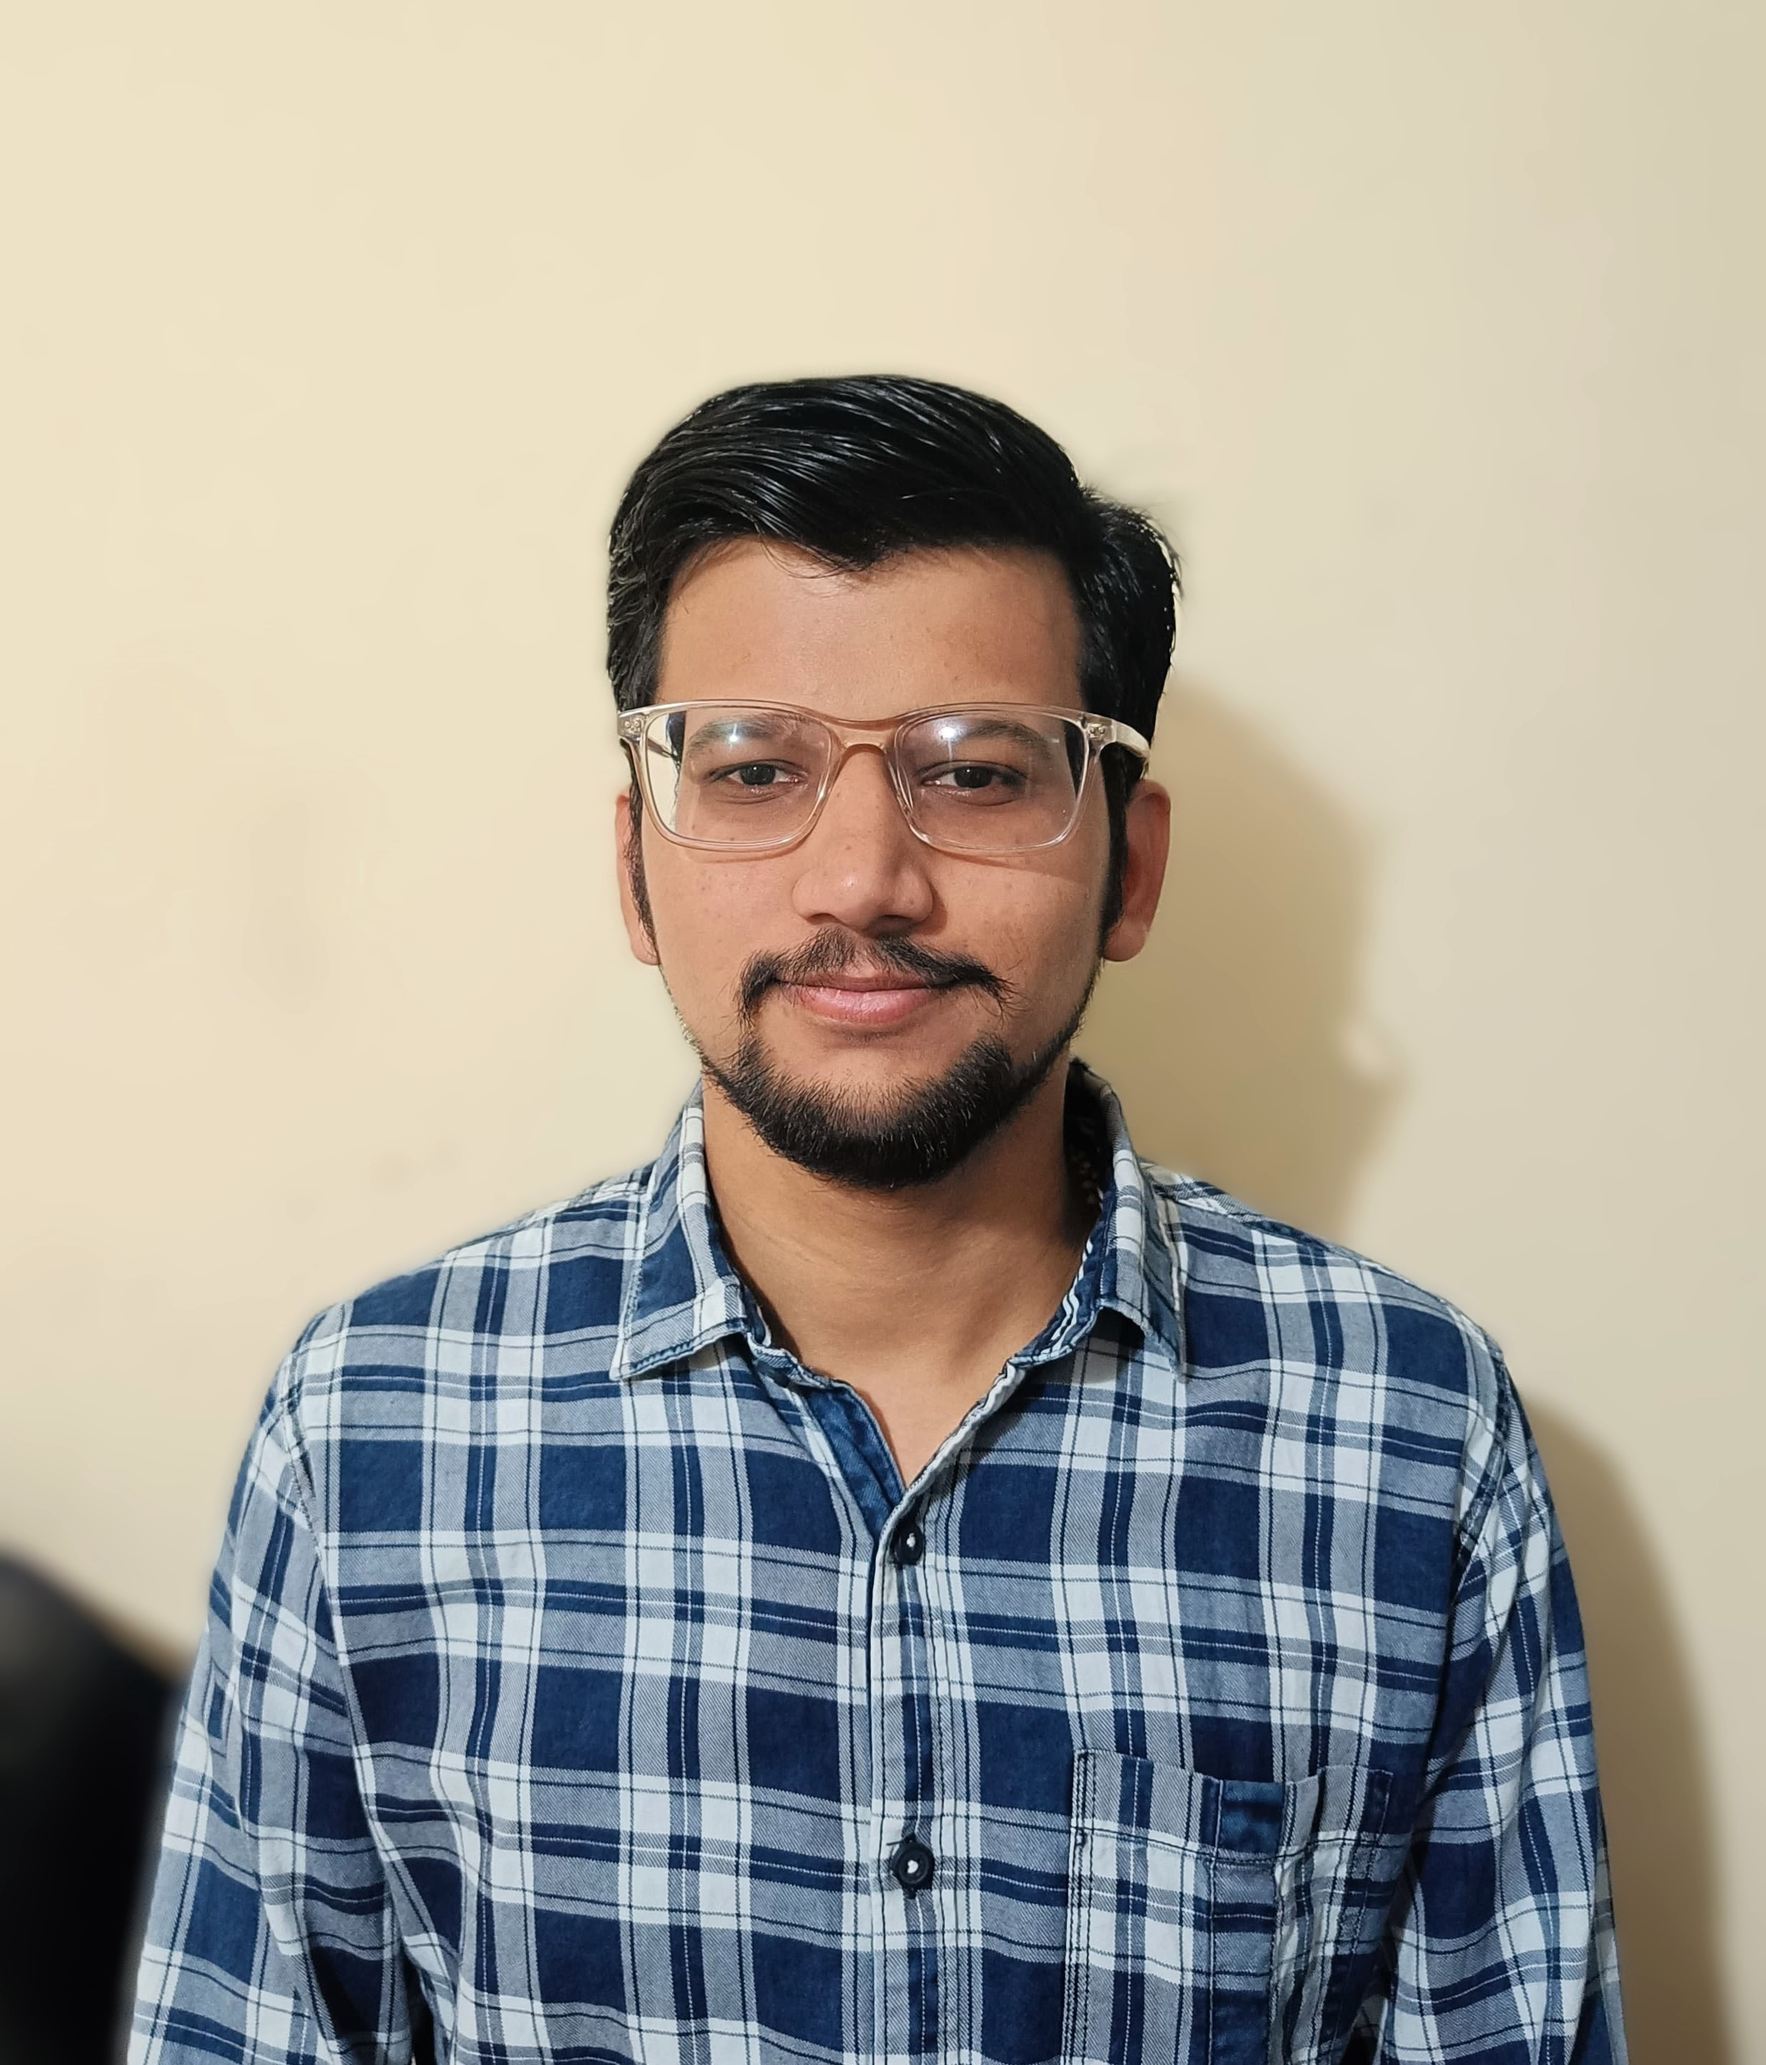
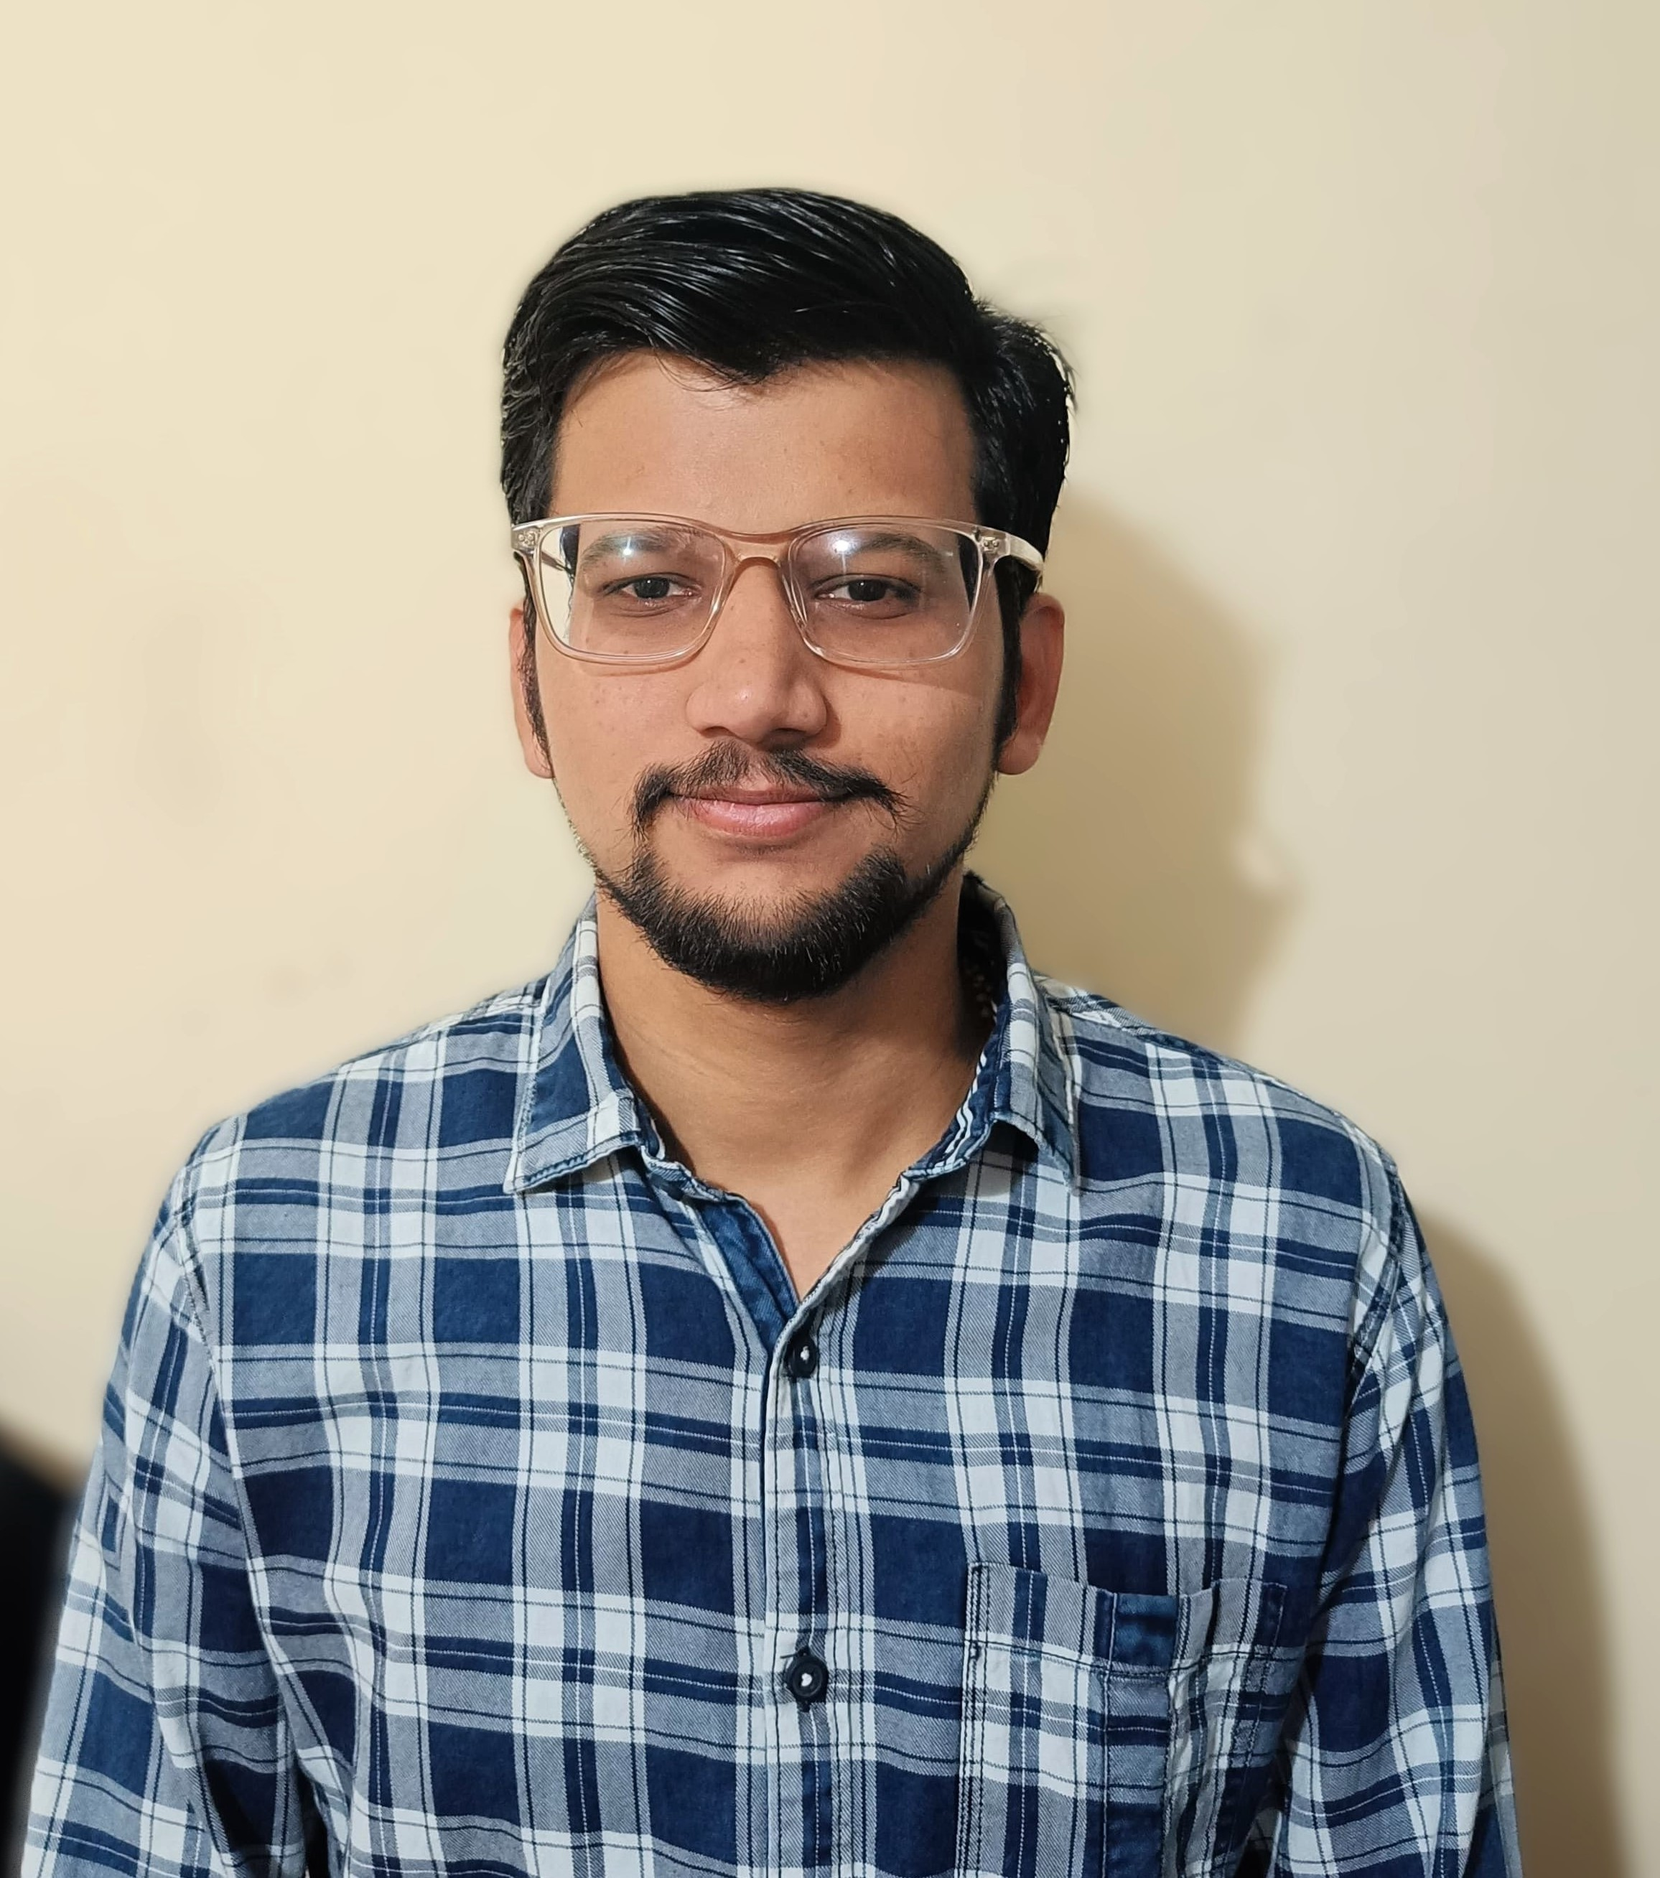
Major Updates

diff --git a/src/components/Experience.jsx b/src/components/Experience.jsx
@@ -48,7 +48,7 @@ const Experience = () => {
       role: "Convener",
       council: "Literary Sub-Council",
       phone: "+91 8765123440",
-      image: "./shivani_koshta.jpg",
+      image: "./shivani_koshta.png",
       linkedin: "https://www.linkedin.com/in/shivani-koshtha-76a81523a",
       instagram: "https://www.instagram.com/koshthashivani"
     },
@@ -57,7 +57,7 @@ const Experience = () => {
       role: "Secretary",
       council: "Literary Sub-Council",
       phone: "+91 6387501988",
-      image: "./prachi.jpg",
+      image: "./prachi.png",
       linkedin: "https://www.linkedin.com/in/prachi-dwivedi-8335b7257/",
       instagram: "#"
     },
@@ -75,7 +75,7 @@ const Experience = () => {
       role: "Co-ordinator",
       council: "Literary Sub-Council",
       phone: "+91 9026511156",
-      image: "./avinash_pal.jpg",
+      image: "./avinash_pal.png",
       linkedin: "https://www.linkedin.com/in/avinash-pal-7789322a1/",
       instagram: "#"
     }
@@ -194,58 +194,99 @@ const Experience = () => {
     },
   ];
   
+
   const TeamHeadCard = ({ member }) => (
     <div className="lg:w-1/3 flex flex-col items-center">
-      <img src={member.image} className="rounded-2xl object-cover object-top w-56 h-56" alt={member.name} />
-      <h1 className="text-2xl text-center mt-12">{member.name}</h1>
-      <h3 className="text-xl text-center mt-4 text-teal-400">{member.role}</h3>
-      <h3 className="text-l text-center mt-2">{member.council}</h3>
-      <p><a href={`tel:${member.phone}`}>{member.phone}</a></p>
-
-      <div className="flex flex-row mt-3">
-      {member.linkedin !== "#" && (
-        <a href={member.linkedin} target="_blank" rel="noopener noreferrer">
-          <FaLinkedin className="mr-4 scale-150 hover:text-blue-700 text-blue-500" />
+      {/* Profile Image with Circular Glow Effect */}
+      <div className="relative w-40 h-40 flex items-center justify-center">
+        {/* Glow Effect Only at the Edges */}
+        <div className="absolute inset-0 w-full h-full rounded-full border-[6px] border-transparent bg-gradient-to-r from-gray-700 to-gray-900 blur-md"></div>
+        {/* Circular Background */}
+        <div className="relative w-40 h-40 flex items-center justify-center overflow-hidden rounded-full border-4 border-gray-800 shadow-lg hover:shadow-xl transition-shadow duration-300">
+          <img
+            src={member.image}
+            className="w-full h-full object-cover object-top rounded-full"
+            alt={member.name}
+          />
+        </div>
+      </div>
+  
+      {/* Member Details */}
+      <h1 className="text-2xl text-center mt-8 text-white">{member.name}</h1>
+      <h3 className="text-xl text-center mt-2 text-teal-400">{member.role}</h3>
+      <h3 className="text-l text-center mt-1 text-gray-300">{member.council}</h3>
+      <p className="mt-2 text-gray-400">
+        <a href={`tel:${member.phone}`} className="hover:text-teal-400 transition-colors">
+          {member.phone}
         </a>
-      )}
-      {member.instagram !== "#" && (
-        <a href={member.instagram} target="_blank" rel="noopener noreferrer">
-          <FaInstagram className="mr-2 scale-150 hover:text-pink-700 text-pink-500" />
-        </a>
-      )}
-    </div>
-
+      </p>
+  
+      {/* Social Media Links */}
+      <div className="flex flex-row mt-3 space-x-4">
+        {member.linkedin !== "#" && (
+          <a href={member.linkedin} target="_blank" rel="noopener noreferrer">
+            <FaLinkedin className="text-blue-400 hover:text-blue-600 transition-colors" size={24} />
+          </a>
+        )}
+        {member.instagram !== "#" && (
+          <a href={member.instagram} target="_blank" rel="noopener noreferrer">
+            <FaInstagram className="text-pink-400 hover:text-pink-600 transition-colors" size={24} />
+          </a>
+        )}
+      </div>
     </div>
   );
   
 
   const TeamMemberCard = ({ member }) => (
-    <div className="flex flex-col items-center p-4">
-      <div className="w-40 h-40 flex items-center justify-center overflow-hidden rounded-2xl">
-      <img src={member.image} className="w-full h-full object-cover object-top" alt={member.name} />
+    <div className="flex flex-col items-center p-6 bg-gray-800 shadow-lg rounded-2xl hover:shadow-2xl transition-shadow duration-300">
+      {/* Profile Image */}
+      <div className="w-40 h-40 flex items-center justify-center overflow-hidden rounded-full border-4 border-teal-400">
+        <img
+          src={member.image}
+          className="w-full h-full object-cover object-top"
+          alt={member.name}
+        />
       </div>
-      <h1 className="text-2xl text-center mt-6">{member.name}</h1>
-      <h3 className="text-xl text-center mt-2 text-teal-400">{member.role}</h3>
-      <h3 className="text-l text-center mt-2">{member.council}</h3>
-      <p className="mt-2">
-        <a href={`tel:${member.phone}`} target="_blank" rel="noopener noreferrer">
+  
+      {/* Member Details */}
+      <h1 className="text-xl font-bold text-center mt-4 text-white">
+        {member.name}
+      </h1>
+      <h3 className="text-lg text-center mt-2 text-teal-400">{member.role}</h3>
+      <h3 className="text-sm text-center mt-1 text-gray-300">{member.council}</h3>
+      <p className="mt-2 text-gray-400">
+        <a
+          href={`tel:${member.phone}`}
+          className="hover:text-teal-400 transition-colors"
+        >
           {member.phone}
         </a>
       </p>
-
-      <div className="flex flex-row mt-3">
-      {member.linkedin !== "#" && (
-        <a href={member.linkedin} target="_blank" rel="noopener noreferrer">
-          <FaLinkedin className="mr-4 scale-150 hover:text-blue-700 text-blue-500" />
-        </a>
-      )}
-      {member.instagram !== "#" && (
-        <a href={member.instagram} target="_blank" rel="noopener noreferrer">
-          <FaInstagram className="mr-2 scale-150 hover:text-pink-700 text-pink-500" />
-        </a>
-      )}
-    </div>
-      
+  
+      {/* Social Media Links */}
+      <div className="flex flex-row mt-4 space-x-4">
+        {member.linkedin !== "#" && (
+          <a
+            href={member.linkedin}
+            target="_blank"
+            rel="noopener noreferrer"
+            className="text-blue-400 hover:text-blue-600 transition-colors"
+          >
+            <FaLinkedin size={24} />
+          </a>
+        )}
+        {member.instagram !== "#" && (
+          <a
+            href={member.instagram}
+            target="_blank"
+            rel="noopener noreferrer"
+            className="text-pink-400 hover:text-pink-600 transition-colors"
+          >
+            <FaInstagram size={24} />
+          </a>
+        )}
+      </div>
     </div>
   );
 
@@ -275,33 +316,33 @@ const Experience = () => {
 
 <div className="mt-10 mb-20 mx-10">
   <Slider
-    {...{
-      dots: true, // Show navigation dots
-      infinite: true, // Infinite scrolling
-      speed: 500, // Transition speed
-      slidesToShow: 4, // Number of slides visible at once
-      slidesToScroll: 1, // Number of slides to scroll at a time
-      responsive: [
-        {
-          breakpoint: 1024, // For screens smaller than 1024px
-          settings: {
-            slidesToShow: 3,
-          },
+    dots={true} // Show navigation dots
+    infinite={true} // Enable infinite scrolling
+    speed={500} // Transition speed
+    slidesToShow={4} // Number of slides visible at once
+    slidesToScroll={1} // Number of slides to scroll at a time
+    autoplay={true} // Enable autoplay
+    autoplaySpeed={1500} // Time interval between slides (in milliseconds)
+    responsive={[
+      {
+        breakpoint: 1024, // For screens smaller than 1024px
+        settings: {
+          slidesToShow: 3,
         },
-        {
-          breakpoint: 768, // For screens smaller than 768px
-          settings: {
-            slidesToShow: 2,
-          },
+      },
+      {
+        breakpoint: 768, // For screens smaller than 768px
+        settings: {
+          slidesToShow: 2,
         },
-        {
-          breakpoint: 640, // For screens smaller than 640px
-          settings: {
-            slidesToShow: 1,
-          },
+      },
+      {
+        breakpoint: 640, // For screens smaller than 640px
+        settings: {
+          slidesToShow: 1,
         },
-      ],
-    }}
+      },
+    ]}
   >
     {teamMembers.map((member, index) => (
       <div key={index} className="p-4">

diff --git a/src/components/Navbar.jsx b/src/components/Navbar.jsx
@@ -8,12 +8,13 @@ import { logo, menu, close } from "../assets";
 const Navbar = () => {
   const [active, setActive] = useState("");
   const [toggle, setToggle] = useState(false);
+
   return (
     <nav
-      className={`${styles.paddingX} w-screen flex items-center py-5 fixed z-50  top-0 bg-primary`}
+      className={`${styles.paddingX} w-screen flex items-center py-5 fixed z-50 top-0 bg-primary`}
     >
-      <div className="w-full flex justify-between items-center max-w-7xl mx-auto ">
-        
+      <div className="w-full flex justify-between items-center max-w-7xl mx-auto">
+        {/* Logo Section */}
         <Link
           to="/"
           className="flex items-center gap-2"
@@ -31,7 +32,9 @@ const Navbar = () => {
             Literary &nbsp; <span className="sm:block hidden"> SubCouncil</span>
           </p>
         </Link>
-        <ul className="list-none hidden sm:flex flex-row gap-10">
+
+        {/* Desktop Navigation */}
+        <ul className="list-none hidden lg:flex flex-row gap-10">
           {navLinks.map((link) => (
             <li
               key={link.id}
@@ -44,7 +47,9 @@ const Navbar = () => {
             </li>
           ))}
         </ul>
-        <div className="sm:hidden flex flex-1 justify-end items-center">
+
+        {/* Mobile Navigation */}
+        <div className="lg:hidden flex flex-1 justify-end items-center">
           <img
             src={toggle ? close : menu}
             alt="menu"
@@ -56,7 +61,7 @@ const Navbar = () => {
               !toggle ? "hidden" : "flex"
             } p-6 black-gradient absolute top-20 right-0 mx-4 my-2 min-w-[140px] z-10 rounded-xl`}
           >
-            <ul className="list-none flex justify-end items-start flex-col gap-4 ">
+            <ul className="list-none flex justify-end items-start flex-col gap-4">
               {navLinks.map((link) => (
                 <li
                   key={link.id}

diff --git a/src/components/Registration.jsx b/src/components/Registration.jsx
@@ -43,7 +43,7 @@ const Registration = () => {
             </td>
             <td style={cellStyle} className="" target="_blank">
               <a
-                // href="https://docs.google.com/forms/d/1YfcoD3sUm8mn6uzVndNwf1LmnYvAc8TvXxz8sQg8fH0/edit?ts=65fd39db"
+                href="https://docs.google.com/forms/d/e/1FAIpQLSf-jLJkz8Zd7NITYqwSbQKeiLstxfcZZgXbd96M7YtH4GD9-g/viewform?usp=header"
                 target="_blank"
                 className="hover:text-blue-600"
               >

diff --git a/index.html b/index.html
@@ -7,6 +7,9 @@
   <meta name="viewport" content="width=device-width, initial-scale=1.0" />
   <meta name="google-site-verification" content="hTrlhwUZcnhD8WHQaqgCDkIIET2z4Kk_QZVTWvaN36k" />
   
+  <!-- <link rel="preload" href="/fonts/slick.woff" as="font" type="font/woff" crossorigin="anonymous">
+<link rel="preload" href="/fonts/slick.ttf" as="font" type="font/ttf" crossorigin="anonymous"> -->
+
   <title>Literary SubCouncil HBTU</title>
   <style>
     #preloader {

diff --git a/src/App.jsx b/src/App.jsx
@@ -31,7 +31,7 @@ const App = () => {
         <Government_events />
 
         {/* this is events file*/}
-        <Feedbacks />
+        <Feedbacks />        
     
         <Registration/>
 
